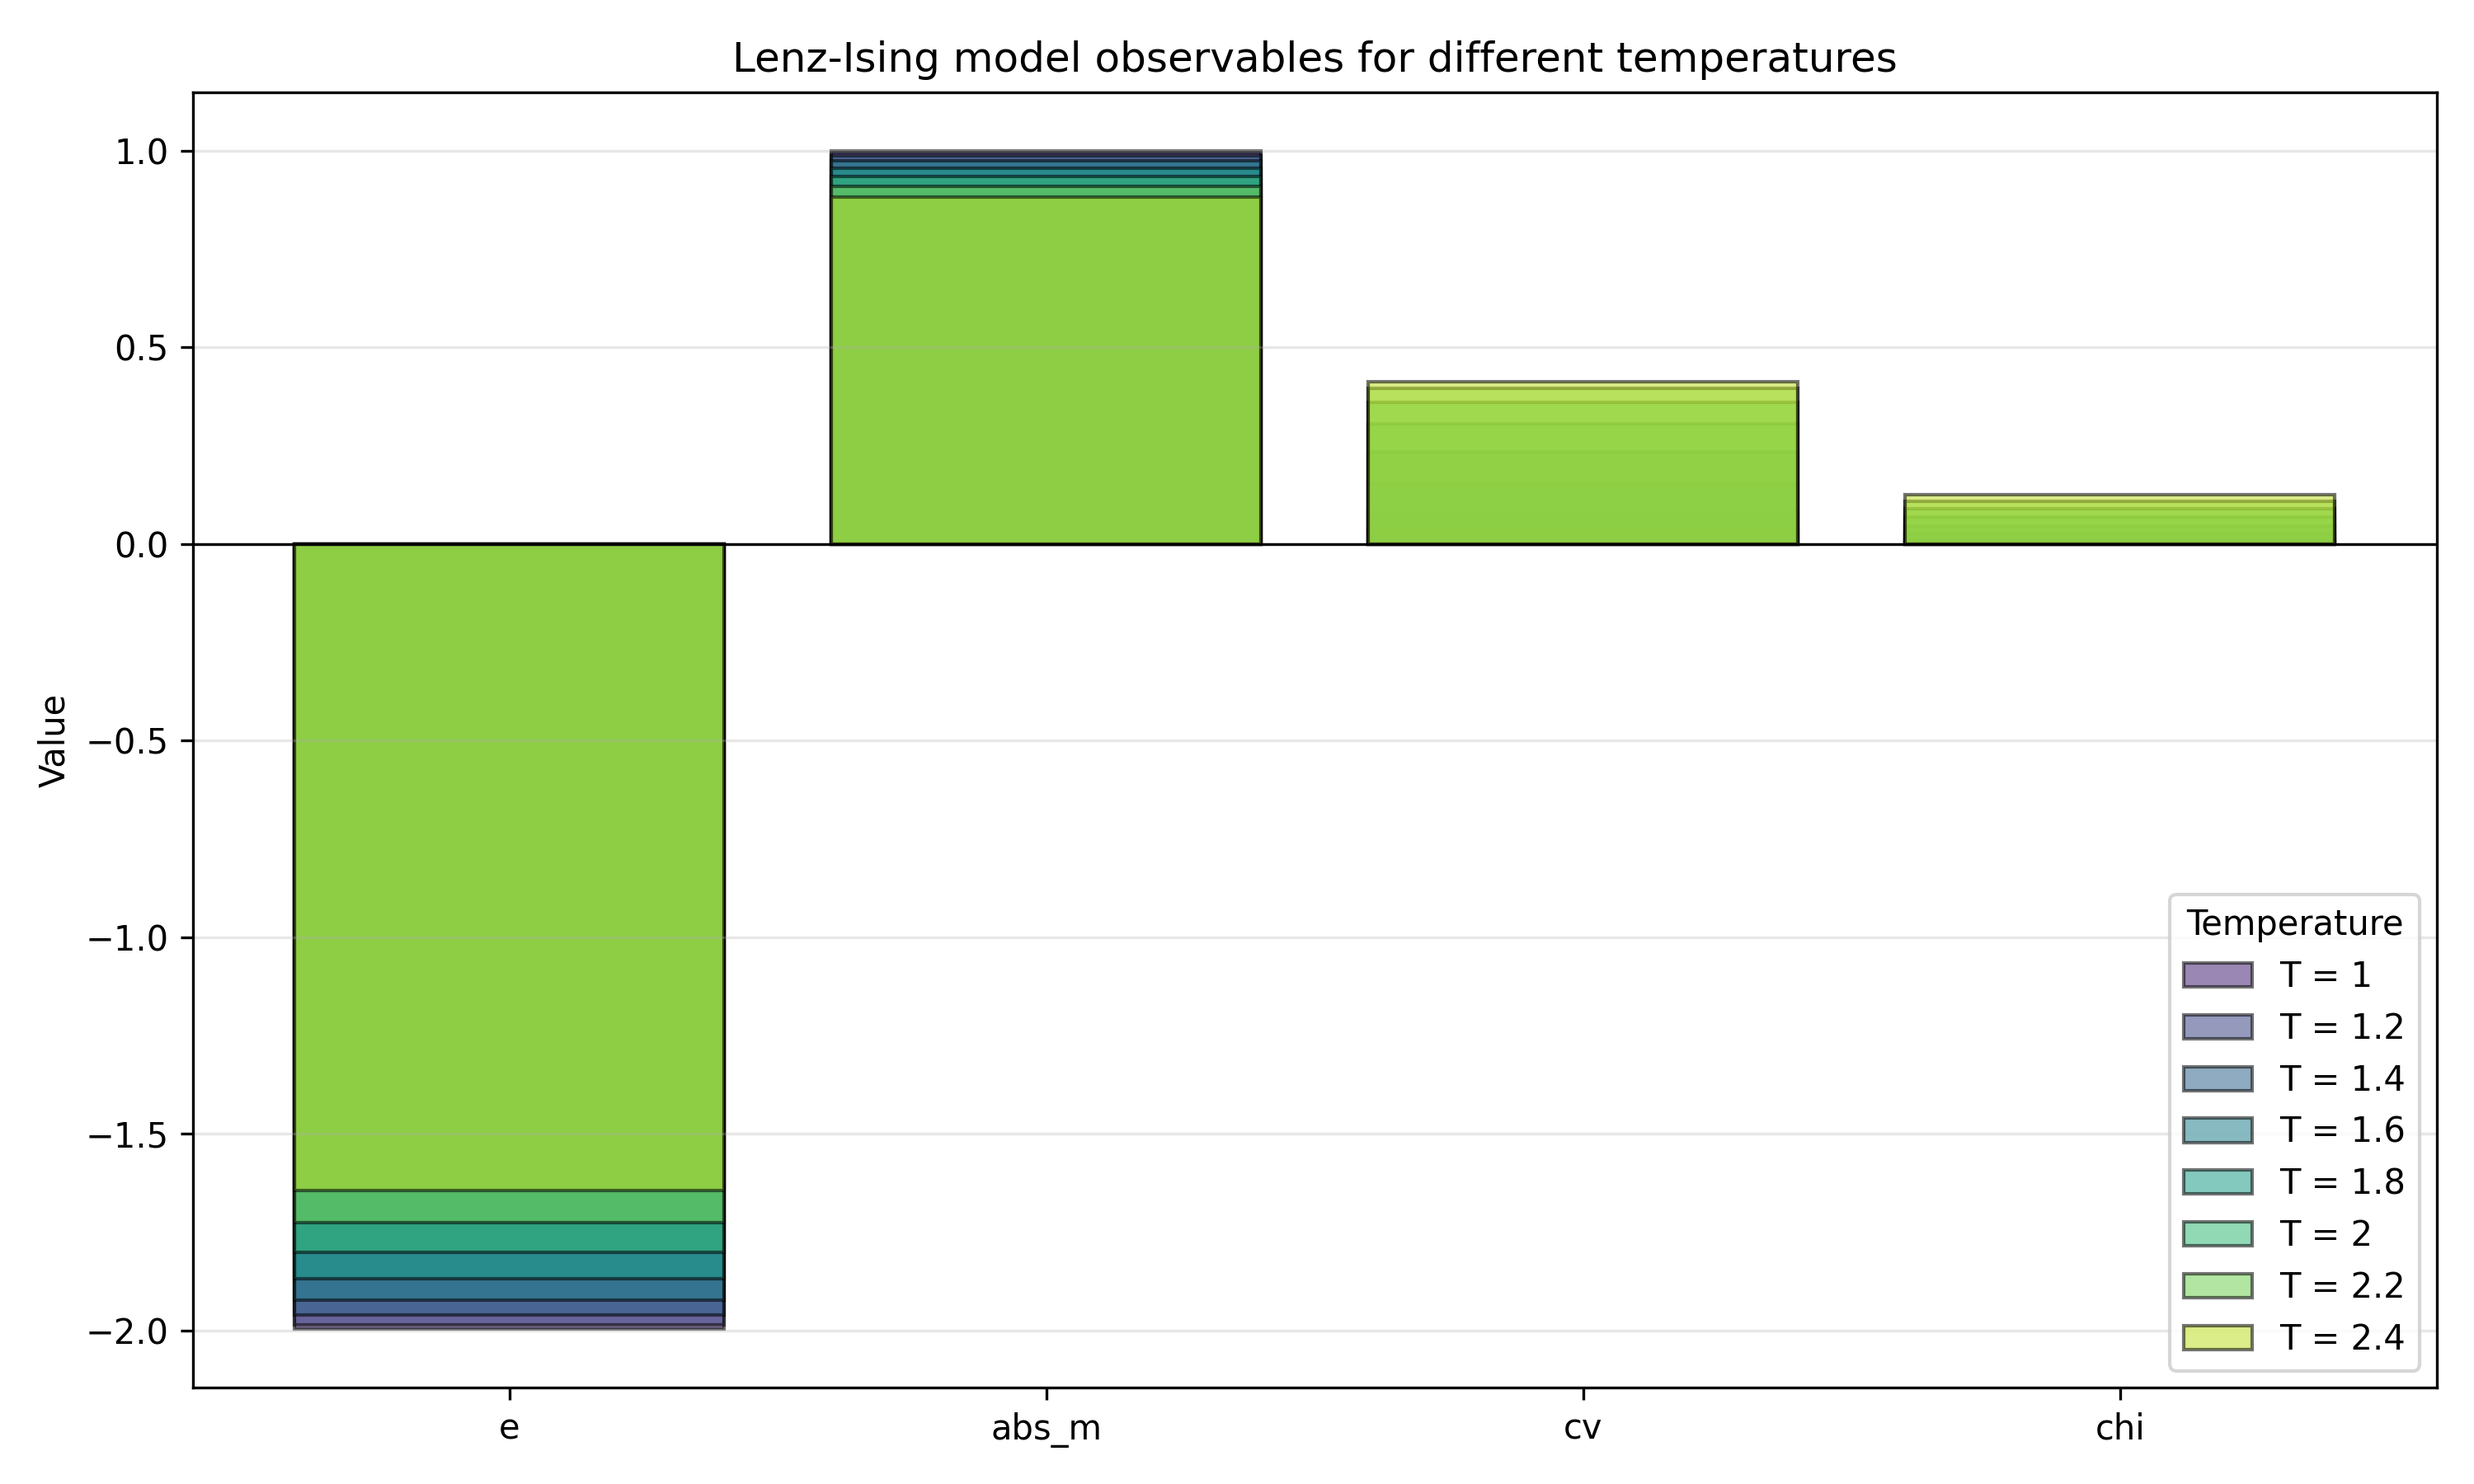
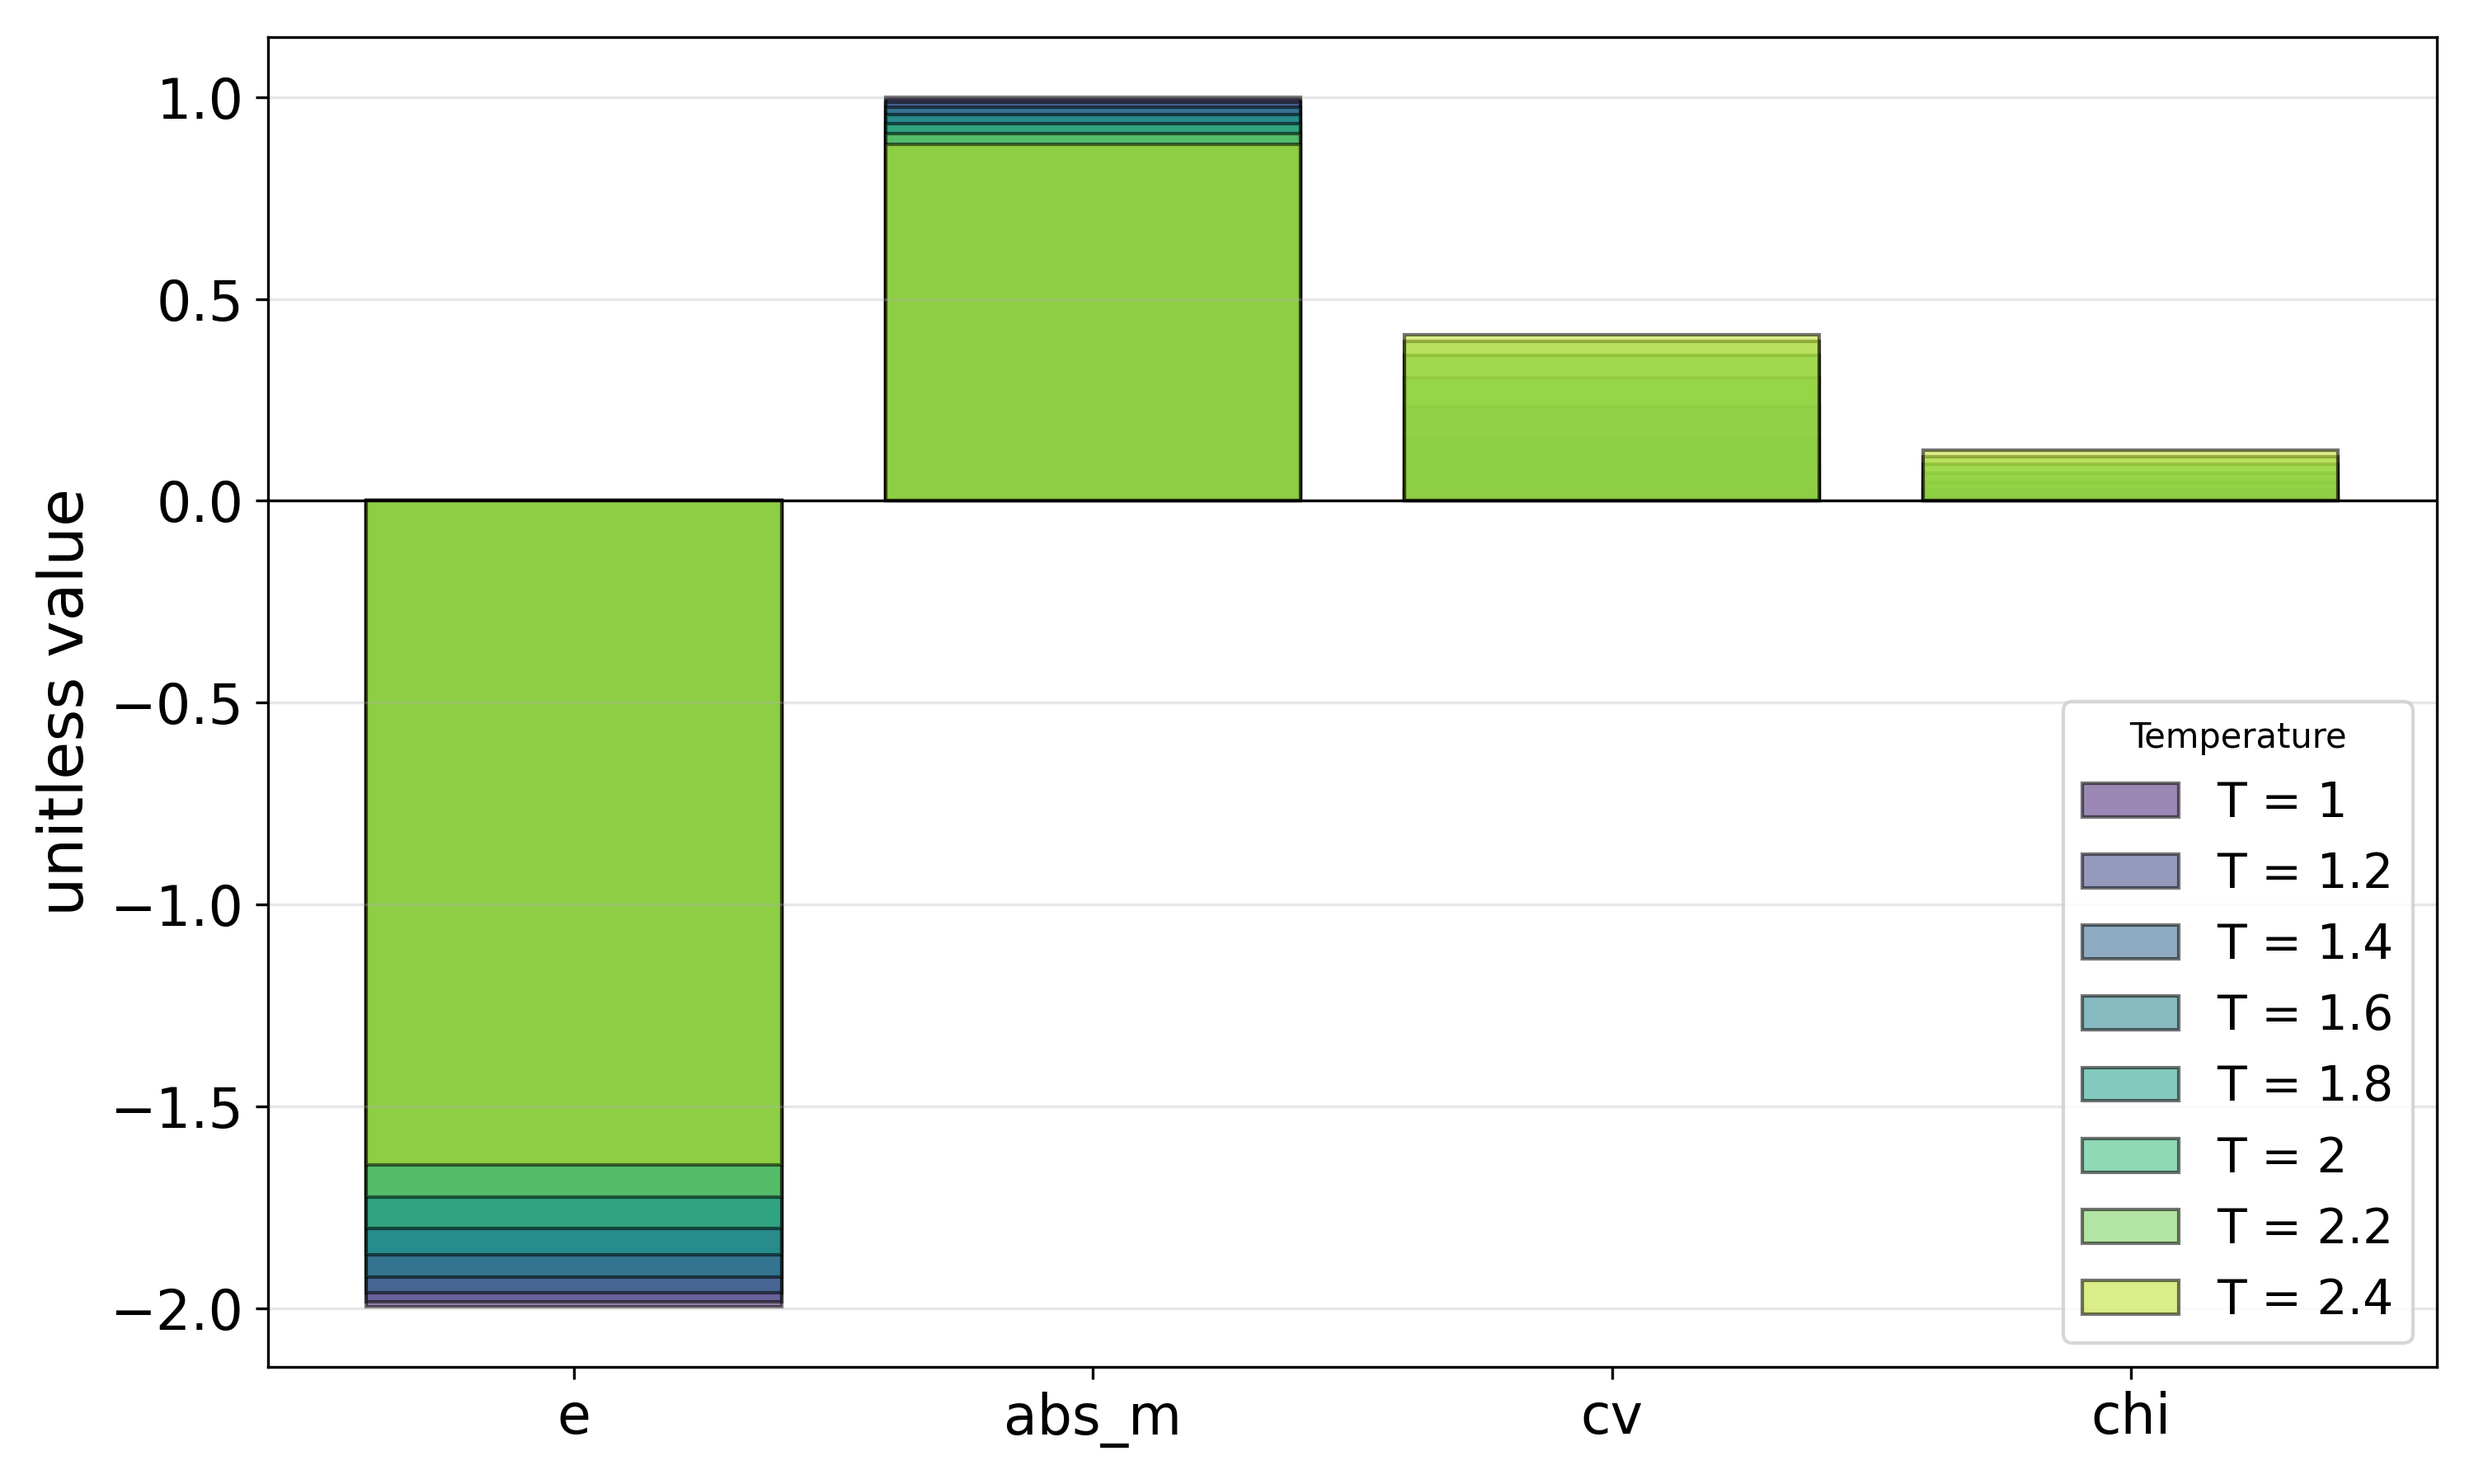
no title, bigger font size

diff --git a/Lenz-Ising-Model/Code /task 4 data/plot4b.py b/Lenz-Ising-Model/Code /task 4 data/plot4b.py
@@ -2,7 +2,7 @@ import numpy as np
 import matplotlib.pyplot as plt 
 import pandas as pd
 
-df = pd.read_csv('task 4 data/results_task4b.csv')
+df = pd.read_csv('results_task4b.csv')
 
 variables = ['e', 'abs_m', 'cv', 'chi']
 x = np.arange(len(variables))
@@ -23,11 +23,14 @@ for color, (_, row) in zip(colors, df.iterrows()):
     )
 
 ax.set_xticks(x, variables)
-ax.set_ylabel('Value')
-ax.set_title('Lenz-Ising model observables for different temperatures')
+ax.tick_params(axis='x', labelsize=16)
+ax.tick_params(axis='y', labelsize=16)
+ax.set_ylabel('unitless value', fontsize = '18')
+#ax.set_title('Lenz-Ising model observables for different temperatures') no title, just caption
 ax.axhline(0, color='black', linewidth=0.8)
-ax.legend(title='Temperature')
+ax.legend(title='Temperature', fontsize = '14')
 ax.grid(axis='y', alpha=0.3)
+
 fig.tight_layout()
-#'fig.savefig('plot4b.png', dpi=300)'
+fig.savefig('plot4b.png', dpi=300)
 plt.show()
